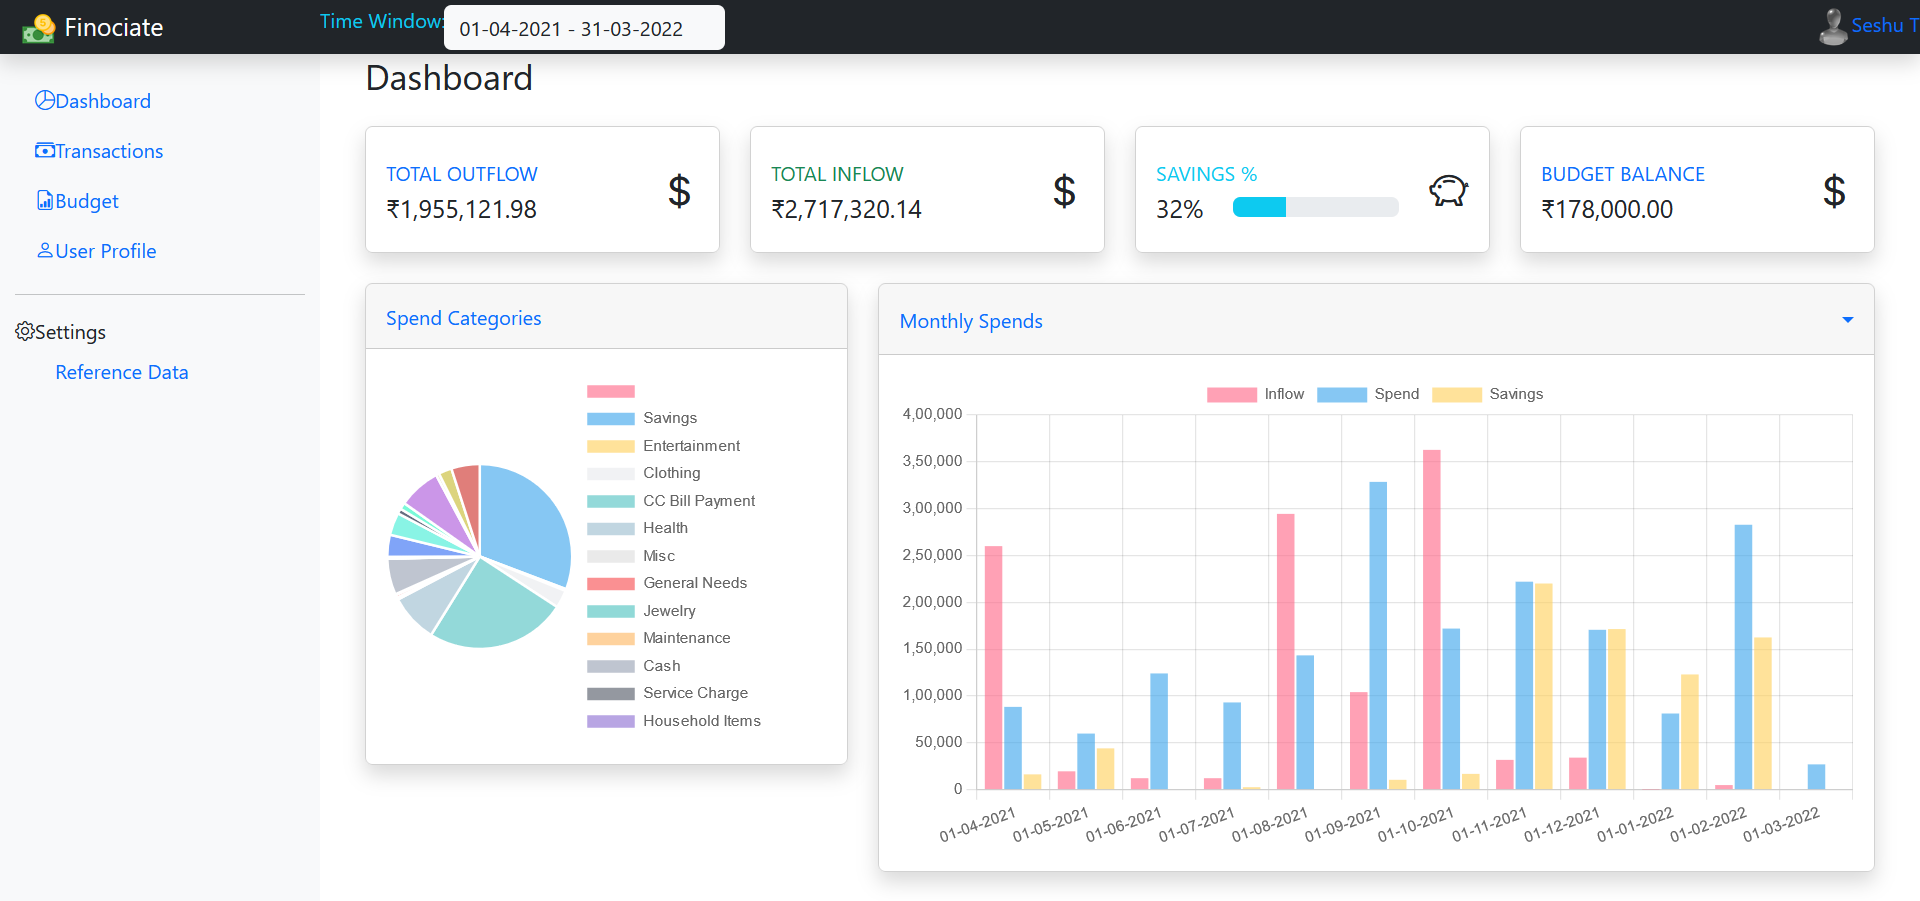
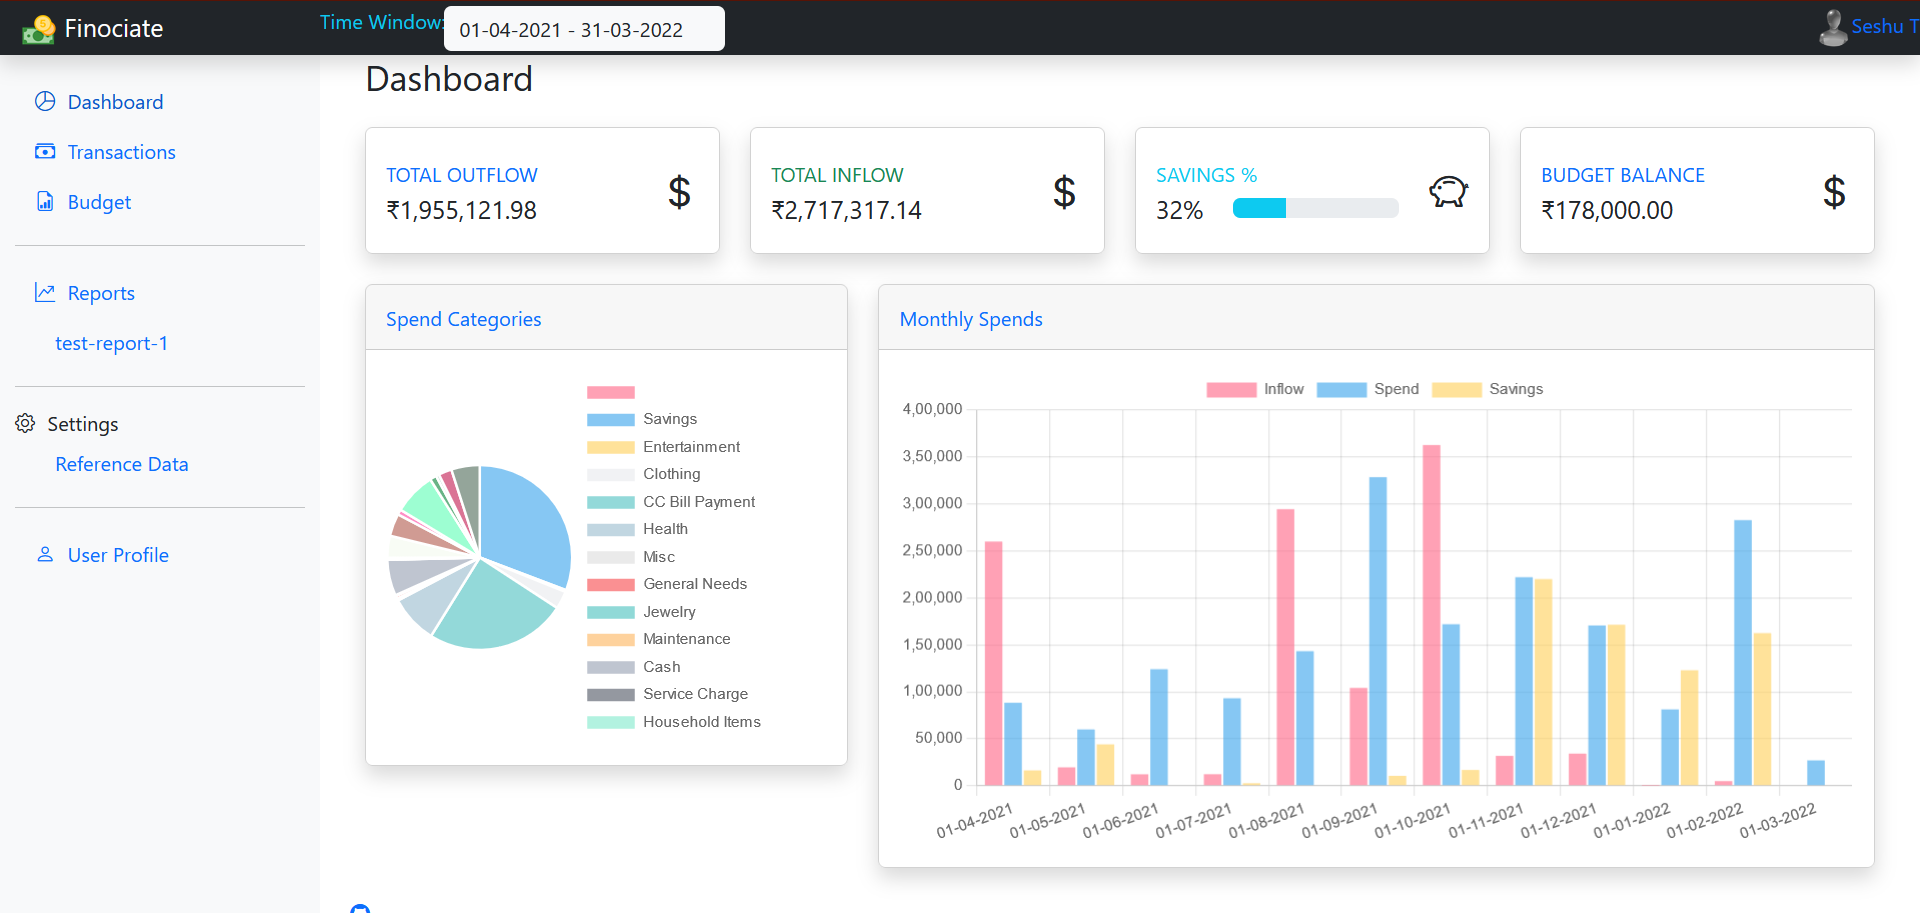
Sidemenu changes

diff --git a/finociate-ui/src/app/pages/dashboard/dashboard.component.html b/finociate-ui/src/app/pages/dashboard/dashboard.component.html
@@ -118,20 +118,6 @@
                 <div
                     class="card-header py-3 d-flex flex-row align-items-center justify-content-between">
                     <h6 class="m-0 font-weight-bold text-primary">Monthly Spends</h6>
-                    <div class="dropdown no-arrow">
-                        <a class="dropdown-toggle" href="#" role="button" id="dropdownMenuLink"
-                            data-toggle="dropdown" aria-haspopup="true" aria-expanded="false">
-                            <i class="bi bi-menu text-gray-400"></i>
-                        </a>
-                        <div class="dropdown-menu dropdown-menu-right shadow animated--fade-in"
-                            aria-labelledby="dropdownMenuLink">
-                            <div class="dropdown-header">Dropdown Header:</div>
-                            <a class="dropdown-item" href="#">Action</a>
-                            <a class="dropdown-item" href="#">Another action</a>
-                            <div class="dropdown-divider"></div>
-                            <a class="dropdown-item" href="#">Something else here</a>
-                        </div>
-                    </div>
                 </div>
                 <!-- Card Body -->
                 <div class="card-body">

diff --git a/finociate-ui/src/app/sidebar/sidebar.component.html b/finociate-ui/src/app/sidebar/sidebar.component.html
@@ -9,7 +9,7 @@
       <hr class="sidebar-divider">
       <li class="nav-item">
         <a class="nav-link" routerLink="/reports">
-          <i class="bi bi-gear"></i>
+          <i class="bi bi-graph-up-arrow"></i>
           <span>Reports</span>
         </a>
         <ul class="nav flex-column">
@@ -31,6 +31,12 @@
             </a>
           </li>
         </ul>
+      </li>
+      <hr class="sidebar-divider">
+      <li class="nav-item">
+        <a class="nav-link" routerLink="/user">
+          <i class="bi bi-person"></i>User Profile
+        </a>
       </li>
     </ul>
   </div>

diff --git a/finociate-ui/src/app/sidebar/sidebar.component.ts b/finociate-ui/src/app/sidebar/sidebar.component.ts
@@ -14,7 +14,7 @@ export const ROUTES: RouteInfo[] = [
   { path: '/dashboard', title: 'Dashboard', icon:'bi-pie-chart', class: '' },
   { path: '/transactions', title: 'Transactions', icon:'bi-cash-stack', class: '' },
   { path: '/budget', title: 'Budget', icon:'bi-file-earmark-bar-graph', class: '' },
-  { path: '/user', title: 'User Profile', icon:'bi-person', class: '' },
+  // { path: '/user', title: 'User Profile', icon:'bi-person', class: '' },
 ];
 
 @Component({

diff --git a/finociate-ui/src/app/shared/footer/footer.component.html b/finociate-ui/src/app/shared/footer/footer.component.html
@@ -1,5 +1,5 @@
 <footer class="sticky-footer bg-white">
-        <a href="#"><i class="bi bi-github"></i></a> 
+        <a href="https://github.com/SeshuTechie/finociate" target="_blank" rel="noopener noreferrer"><i class="bi bi-github"></i></a> 
         <div class="container my-auto">
             <div class="copyright text-center my-auto">
                 <span>Copyright &copy; {{today | date: 'yyyy'}}</span>

diff --git a/finociate-ui/src/app/services/transaction.service.ts b/finociate-ui/src/app/services/transaction.service.ts
@@ -48,6 +48,7 @@ export class TransactionService {
 
     // HttpClient API get() method => Fetch monthly transactions summary
     getMonthlyTransactionSummary(filterParams: FilterParams): Observable<TransactionSummaryList> {
+      console.log('Trying to get Monthly Transactions', filterParams);
       if (filterParams.fromDate == '' || filterParams.toDate == '') {
         return EMPTY;
       }

diff --git a/finociate-ui/src/styles.css b/finociate-ui/src/styles.css
@@ -48,3 +48,11 @@
   .size-2x {
     font-size: 2rem;
   }
+
+  .nav-item>a i::before {
+    padding-right: 10px;
+  }
+
+  .nav-item>i::before {
+    padding-right: 10px;
+  }
